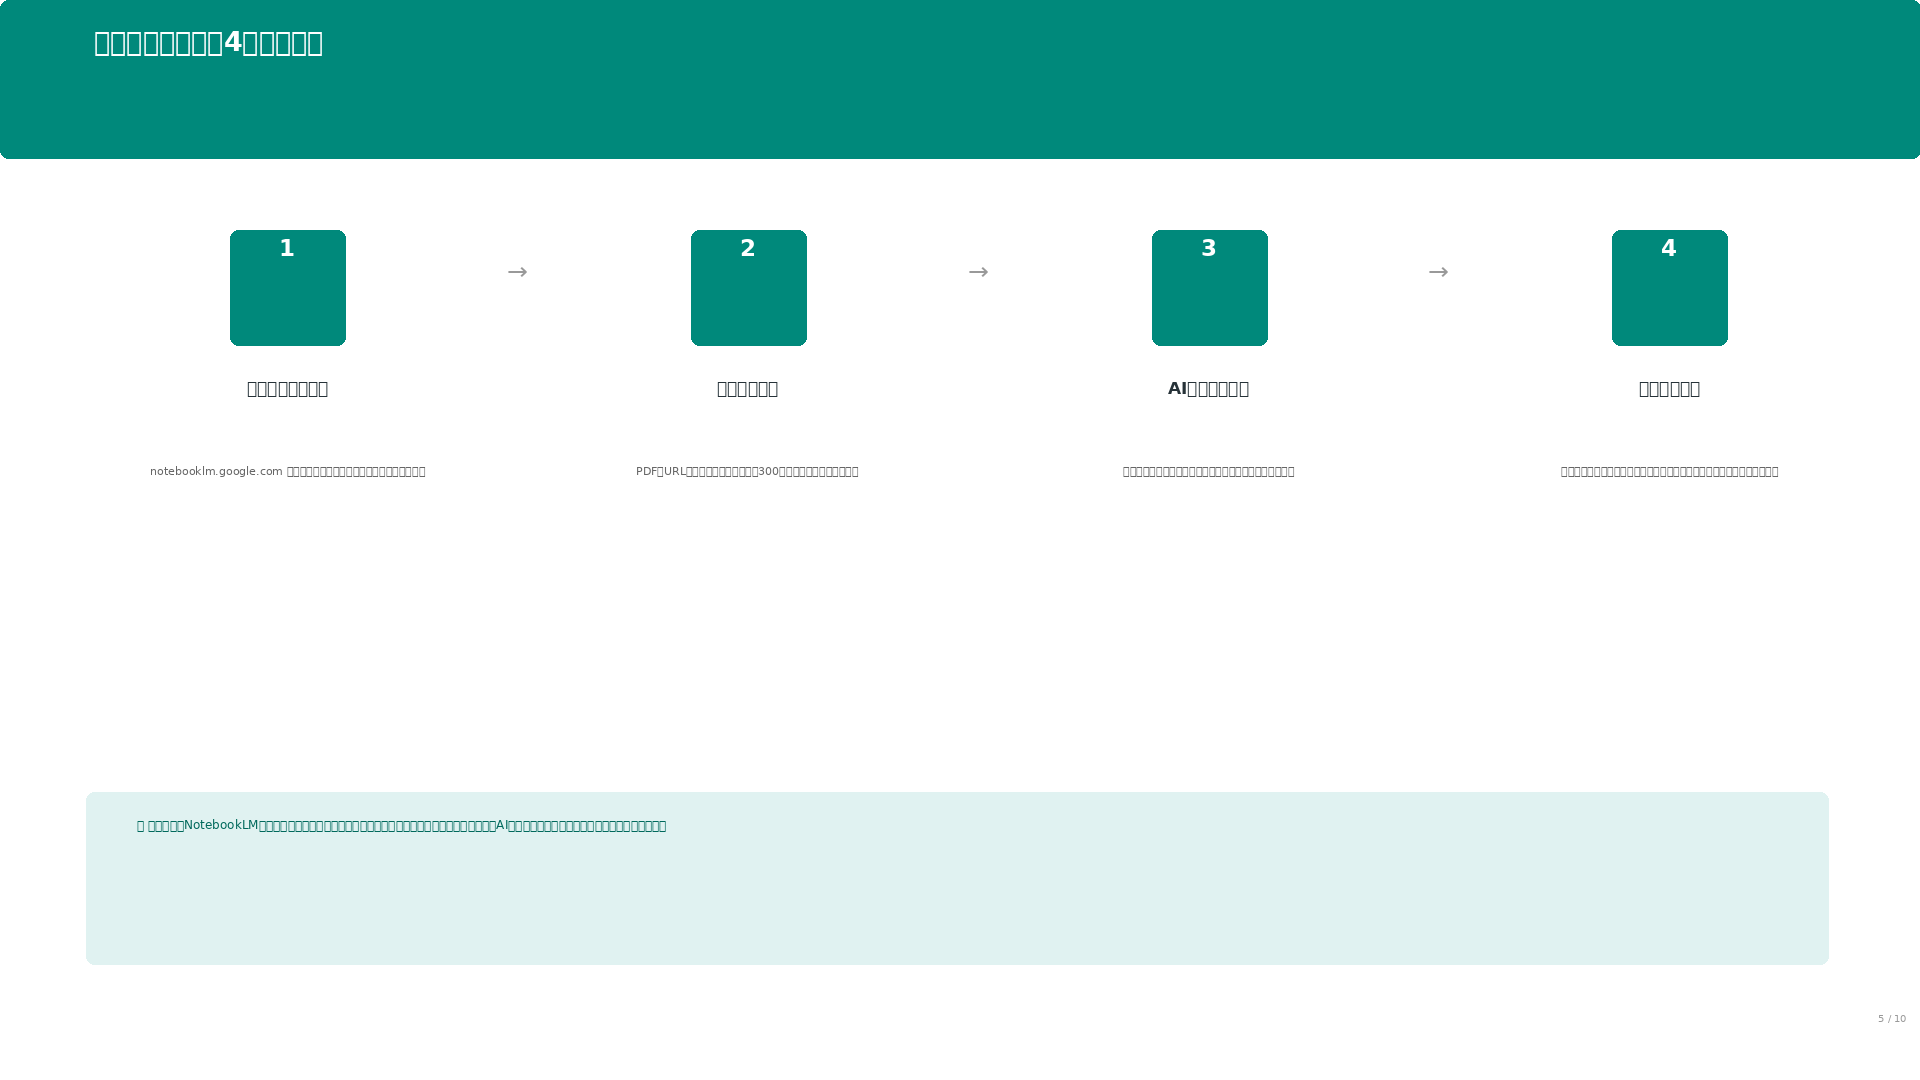
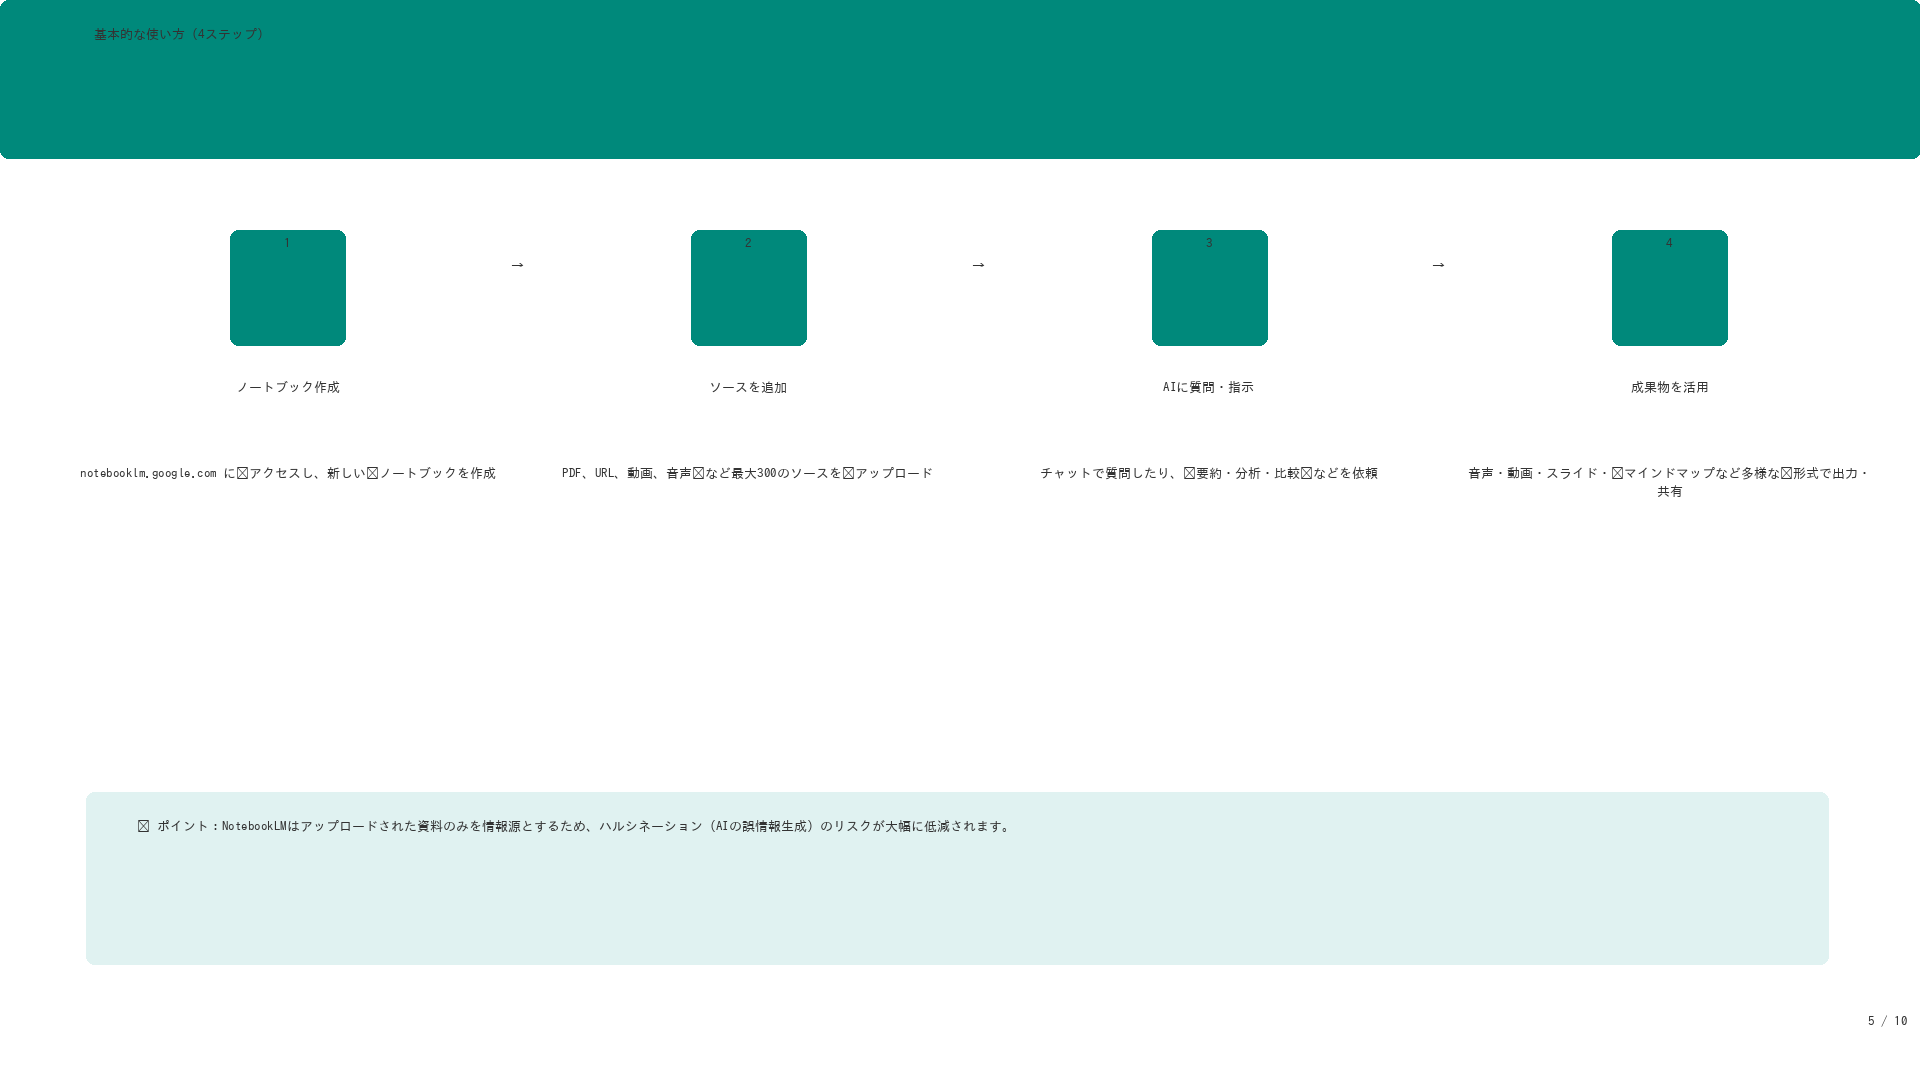
Update slide previews with Japanese font support (IPAGothic)
https://claude.ai/code/session_01LKXee94BonXGLv1qgRwkwg

diff --git a/preview_slides.py b/preview_slides.py
@@ -1,26 +1,27 @@
 #!/usr/bin/env python3
-"""Generate visual preview images of each slide from the PPTX."""
+"""Generate visual preview images of each slide from the PPTX with Japanese font support."""
 
 from PIL import Image, ImageDraw, ImageFont
 from pptx import Presentation
 from pptx.util import Inches, Pt, Emu
 from pptx.dml.color import RGBColor
 from pptx.enum.text import PP_ALIGN
-import os
+import os, textwrap
 
-W, H = 1920, 1080  # Preview resolution
+W, H = 1920, 1080
+
+FONT_JP = '/usr/share/fonts/opentype/ipafont-gothic/ipag.ttf'
+FONT_BOLD = '/usr/share/fonts/opentype/ipafont-gothic/ipag.ttf'  # same for now
+FONT_EMOJI = '/usr/share/fonts/truetype/NotoColorEmoji.ttf'
 
 def emu_to_px(emu_val, slide_dim, px_dim):
     return int(emu_val / slide_dim * px_dim)
 
-def get_color(color_obj):
+def get_font(size, bold=False):
     try:
-        if color_obj and color_obj.rgb:
-            r = color_obj.rgb
-            return (r[0] << 16 | r[1] << 8 | r[2])
+        return ImageFont.truetype(FONT_JP, size)
     except:
-        pass
-    return None
+        return ImageFont.load_default()
 
 prs = Presentation('notebooklm-training-slides.pptx')
 sw = prs.slide_width
@@ -28,47 +29,13 @@ sh = prs.slide_height
 
 os.makedirs('slide_previews', exist_ok=True)
 
-# Try to find a font
-font_paths = [
-    '/usr/share/fonts/truetype/dejavu/DejaVuSans.ttf',
-    '/usr/share/fonts/truetype/liberation/LiberationSans-Regular.ttf',
-    '/usr/share/fonts/truetype/noto/NotoSansCJK-Regular.ttc',
-    '/usr/share/fonts/opentype/noto/NotoSansCJK-Regular.ttc',
-]
-
-font_path = None
-for fp in font_paths:
-    if os.path.exists(fp):
-        font_path = fp
-        break
-
-# Also find a bold font
-bold_font_paths = [
-    '/usr/share/fonts/truetype/dejavu/DejaVuSans-Bold.ttf',
-    '/usr/share/fonts/truetype/liberation/LiberationSans-Bold.ttf',
-]
-bold_font_path = None
-for fp in bold_font_paths:
-    if os.path.exists(fp):
-        bold_font_path = fp
-        break
-
-def get_font(size, bold=False):
-    try:
-        path = bold_font_path if (bold and bold_font_path) else font_path
-        if path:
-            return ImageFont.truetype(path, size)
-    except:
-        pass
-    return ImageFont.load_default()
-
 for slide_idx, slide in enumerate(prs.slides):
     img = Image.new('RGB', (W, H), (255, 255, 255))
     draw = ImageDraw.Draw(img)
 
-    # Draw background
-    bg = slide.background
+    # Background
     try:
+        bg = slide.background
         if bg.fill.type is not None:
             c = bg.fill.fore_color.rgb
             img = Image.new('RGB', (W, H), (c[0], c[1], c[2]))
@@ -76,63 +43,100 @@ for slide_idx, slide in enumerate(prs.slides):
     except:
         pass
 
-    # Draw shapes
-    for shape in slide.shapes:
-        # Position
+    # Collect and sort shapes by z-order (order in XML)
+    shapes = list(slide.shapes)
+
+    for shape in shapes:
         x = emu_to_px(shape.left, sw, W)
         y = emu_to_px(shape.top, sh, H)
         w = emu_to_px(shape.width, sw, W)
         h = emu_to_px(shape.height, sh, H)
 
-        # Draw filled shapes
+        # Draw fill
         try:
-            if shape.shape_type is not None and hasattr(shape, 'fill'):
+            if hasattr(shape, 'fill'):
                 fill = shape.fill
                 if fill.type is not None:
                     try:
                         c = fill.fore_color.rgb
                         color = (c[0], c[1], c[2])
-                        if shape.shape_type == 9:  # OVAL
-                            draw.ellipse([x, y, x+w, y+h], fill=color)
-                        else:
-                            draw.rounded_rectangle([x, y, x+w, y+h], radius=8, fill=color)
+                        try:
+                            st = shape.shape_type
+                            if st == 9:  # OVAL
+                                draw.ellipse([x, y, x+w, y+h], fill=color)
+                            else:
+                                draw.rounded_rectangle([x, y, x+w, y+h], radius=8, fill=color)
+                        except:
+                            draw.rectangle([x, y, x+w, y+h], fill=color)
                     except:
                         pass
+        except:
+            pass
+
+        # Draw border
+        try:
+            line = shape.line
+            if line.fill.type is not None:
+                lc = line.color.rgb
+                lw = max(1, int((line.width or 12700) / 12700))
+                border_color = (lc[0], lc[1], lc[2])
+                draw.rounded_rectangle([x, y, x+w, y+h], radius=8, outline=border_color, width=lw)
         except:
             pass
 
         # Draw text
         if shape.has_text_frame:
             tf = shape.text_frame
-            ty = y + 4
+            ty = y + 6
             for para in tf.paragraphs:
                 text = para.text.strip()
                 if not text:
-                    ty += 8
+                    ty += 10
                     continue
 
-                # Get font properties
+                # Font properties
                 fs = 16
                 bold = False
                 text_color = (51, 51, 51)
                 align = 'left'
 
-                try:
-                    if para.font.size:
-                        fs = int(para.font.size / 12700)
-                except:
-                    pass
-                try:
-                    if para.font.bold:
-                        bold = True
-                except:
-                    pass
-                try:
-                    if para.font.color and para.font.color.rgb:
-                        c = para.font.color.rgb
-                        text_color = (c[0], c[1], c[2])
-                except:
-                    pass
+                # Get from first run if available
+                if para.runs:
+                    run = para.runs[0]
+                    try:
+                        if run.font.size:
+                            fs = max(8, int(run.font.size / 12700))
+                    except:
+                        pass
+                    try:
+                        if run.font.bold:
+                            bold = True
+                    except:
+                        pass
+                    try:
+                        if run.font.color and run.font.color.rgb:
+                            c = run.font.color.rgb
+                            text_color = (c[0], c[1], c[2])
+                    except:
+                        pass
+                else:
+                    try:
+                        if para.font.size:
+                            fs = max(8, int(para.font.size / 12700))
+                    except:
+                        pass
+                    try:
+                        if para.font.bold:
+                            bold = True
+                    except:
+                        pass
+                    try:
+                        if para.font.color and para.font.color.rgb:
+                            c = para.font.color.rgb
+                            text_color = (c[0], c[1], c[2])
+                    except:
+                        pass
+
                 try:
                     if para.alignment == PP_ALIGN.CENTER:
                         align = 'center'
@@ -141,11 +145,10 @@ for slide_idx, slide in enumerate(prs.slides):
                 except:
                     pass
 
-                # Scale font size
-                render_size = max(10, int(fs * 0.85))
+                render_size = max(10, int(fs * 0.82))
                 font = get_font(render_size, bold)
 
-                # Handle text positioning
+                # Measure text
                 try:
                     bbox = draw.textbbox((0, 0), text, font=font)
                     tw = bbox[2] - bbox[0]
@@ -153,27 +156,27 @@ for slide_idx, slide in enumerate(prs.slides):
                 except:
                     tw, th = len(text) * render_size, render_size
 
-                if align == 'center':
-                    tx = x + (w - tw) // 2
-                elif align == 'right':
-                    tx = x + w - tw - 8
-                else:
-                    tx = x + 8
+                max_w = w - 16
 
-                # Word wrap for long text
-                if tw > w - 16:
-                    # Simple word wrap
-                    chars_per_line = max(1, int(len(text) * (w - 16) / max(tw, 1)))
+                # Word wrap if needed
+                if tw > max_w and max_w > 0:
+                    chars_per_line = max(1, int(len(text) * max_w / max(tw, 1)))
                     lines = []
-                    while text:
-                        if len(text) <= chars_per_line:
-                            lines.append(text)
+                    remaining = text
+                    while remaining:
+                        if len(remaining) <= chars_per_line:
+                            lines.append(remaining)
                             break
-                        cut = text.rfind(' ', 0, chars_per_line)
-                        if cut <= 0:
-                            cut = chars_per_line
-                        lines.append(text[:cut])
-                        text = text[cut:].lstrip()
+                        cut = chars_per_line
+                        # Try to find a good break point
+                        for sep in [' ', '、', '。', '・', '）', '」']:
+                            pos = remaining.rfind(sep, 0, chars_per_line + 1)
+                            if pos > 0:
+                                cut = pos + 1
+                                break
+                        lines.append(remaining[:cut])
+                        remaining = remaining[cut:].lstrip()
+
                     for line in lines:
                         try:
                             bbox = draw.textbbox((0, 0), line, font=font)
@@ -182,17 +185,24 @@ for slide_idx, slide in enumerate(prs.slides):
                             ltw = len(line) * render_size
                         if align == 'center':
                             lx = x + (w - ltw) // 2
+                        elif align == 'right':
+                            lx = x + w - ltw - 8
                         else:
-                            lx = tx
+                            lx = x + 8
                         draw.text((lx, ty), line, fill=text_color, font=font)
                         ty += th + 4
                 else:
+                    if align == 'center':
+                        tx = x + (w - tw) // 2
+                    elif align == 'right':
+                        tx = x + w - tw - 8
+                    else:
+                        tx = x + 8
                     draw.text((tx, ty), text, fill=text_color, font=font)
                     ty += th + 6
 
-    # Save
     path = f'slide_previews/slide_{slide_idx + 1:02d}.png'
     img.save(path)
     print(f'Saved {path}')
 
-print(f'\nAll {len(prs.slides)} slide previews generated in slide_previews/')
+print(f'\nAll {len(prs.slides)} slides generated.')
